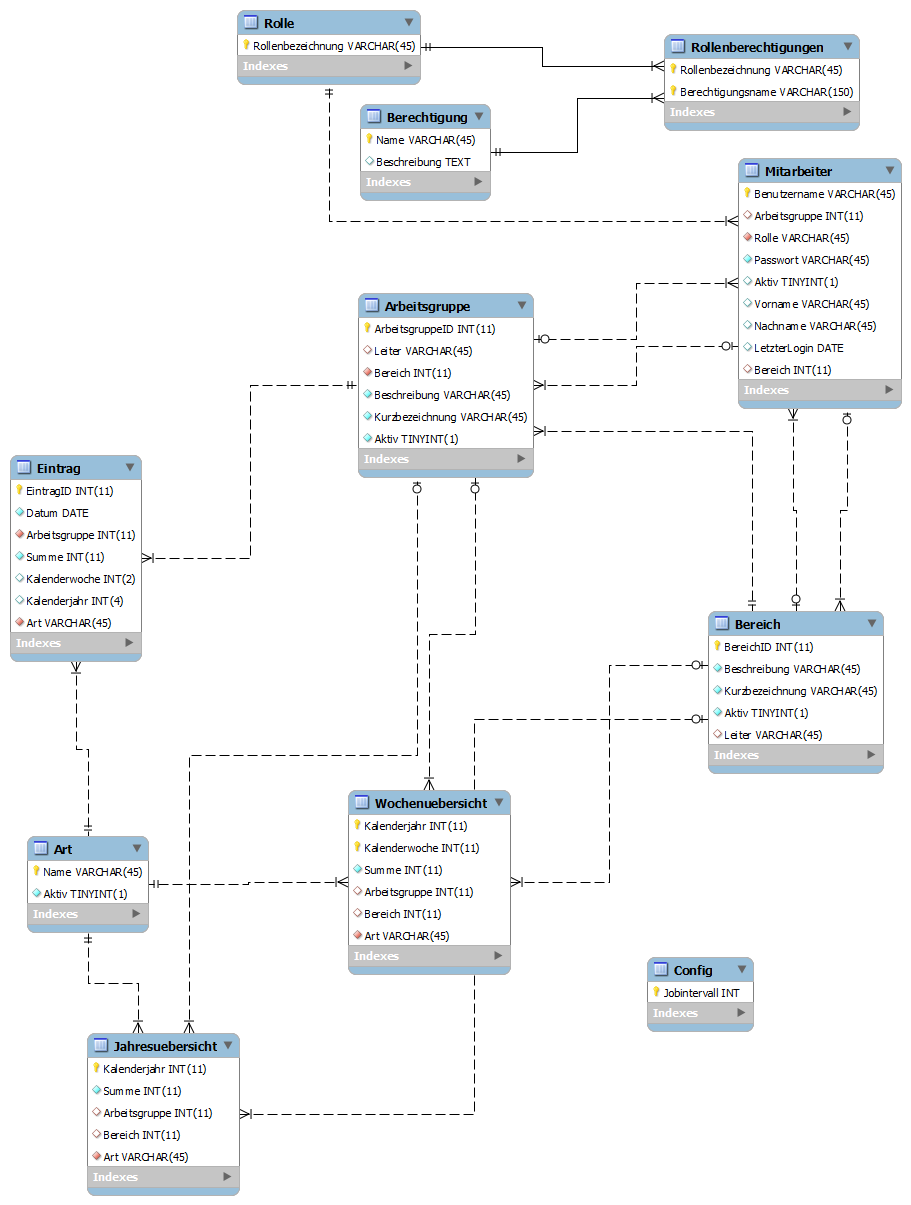
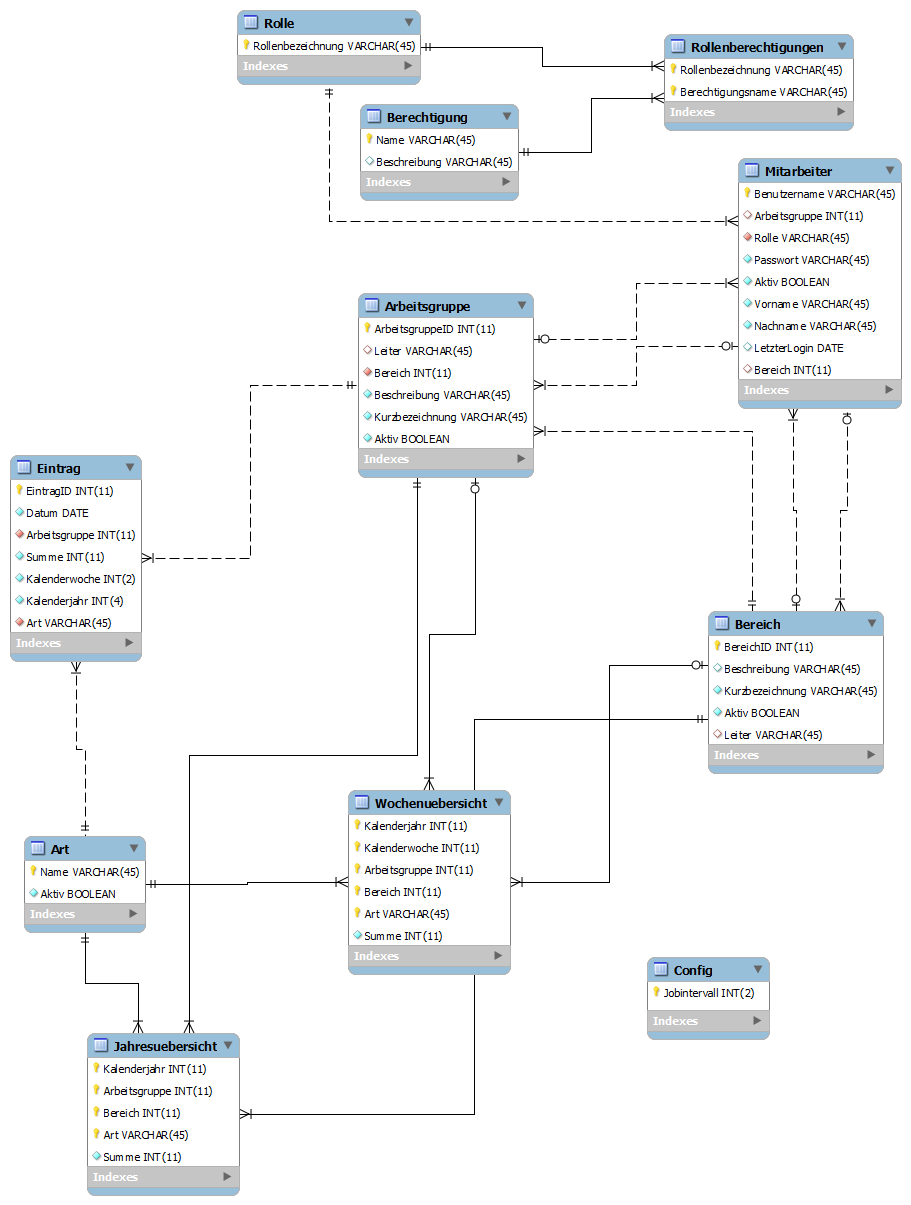
Konfig ist fertig. PNG aktualisert

diff --git a/src/fallstudie/model/impl/Konfig.java b/src/fallstudie/model/impl/Konfig.java
@@ -8,15 +8,40 @@ import fallstudie.model.mysql.connector.RemoteConnection;
 
 public class Konfig {
 
-	int jobIntervall;
+	String jobIntervall;
 	
 	/**
-	 * Standartkonstruktor
-	 * @throws SQLException 
+	 * Ändert das Jobintervall, Standard ist 3= 3 Monate
+	 * @param intervall MONATSANGABE
+	 * @return
+	 * @throws Exception
 	 */
-	public Konfig() throws SQLException
-	{
-		RemoteConnection Connection = new RemoteConnection();
+	public boolean setJobIntervall(String intervall) throws Exception
+	{	
+		try
+		{
+			if( RemoteConnection.connection == null || RemoteConnection.sql == null ){
+				RemoteConnection.connect();
+			};
+		}
+		catch (NullPointerException e)
+		{
+			System.err.println("Konnte keine Datenbankverbindung herstellen!");
+		}
+		boolean erfolgreich = false;
+		
+		System.out.println("UPDATE Config SET Jobintervall='"+intervall+"'");
+		
+		int rowsAffect = RemoteConnection.sql.executeUpdate("UPDATE Config SET Jobintervall='"+intervall+"'");
+		
+		if (rowsAffect==1)erfolgreich =true;System.out.println("Es wurde "+rowsAffect+" Datensatz gespeichert.");
+		if (rowsAffect==0)throw new Exception("Datensatz konnte nicht gespeichert werden!");
+		return erfolgreich;
+		
+		
+	}
+	public static String getJobIntervall() throws SQLException
+	{	RemoteConnection Connection = new RemoteConnection();
 		try
 		{
 			if( RemoteConnection.connection == null || RemoteConnection.sql == null ){
@@ -32,27 +57,9 @@ public class Konfig {
 		
 		ResultSet resultSet = Connection.executeQueryStatement("SELECT * FROM Config");
 		resultSet.next();
-		this.jobIntervall=resultSet.getInt("Jobintervall");
-		
-	}
-	
-	public boolean setJobIntervall(int intervall) throws Exception
-	{
-		boolean erfolgreich = false;
-		
-		System.out.println("UPDATE Config SET Jobintervall='"+intervall+"'");
-		
-		int rowsAffect = RemoteConnection.sql.executeUpdate("UPDATE Config SET Jobintervall='"+intervall+"'");
-		
-		if (rowsAffect==1)erfolgreich =true;System.out.println("Es wurde "+rowsAffect+" Datensatz gespeichert.");
-		if (rowsAffect==0)throw new Exception("Datensatz konnte nicht gespeichert werden!");
-		this.jobIntervall=intervall;
-		return erfolgreich;
-		
-		
-	}
-	public int getJobIntervall()
-	{
-		return this.jobIntervall;
+		String jobIntervall=resultSet.getString("Jobintervall");
+
+
+		return jobIntervall;
 	}
 }

diff --git a/src/fallstudie/model/impl/TesterKlasse.java b/src/fallstudie/model/impl/TesterKlasse.java
@@ -1,9 +1,12 @@
 package fallstudie.model.impl;
 
+import java.sql.ResultSet;
 import java.util.Collection;
 import java.util.Iterator;
 import java.util.LinkedList;
 import java.util.concurrent.LinkedBlockingDeque;
+
+import fallstudie.model.mysql.connector.RemoteConnection;
 
 
 
@@ -15,20 +18,23 @@ public class TesterKlasse {
 	 * @throws Exception 
 	 */
 	public static void main(String[] args) throws Exception {
-		
-		Collection<Rechte> alleRechteVonRolle = new LinkedList<>();
-		Rolle r = new Rolle("Sachbearbeiter");
-		alleRechteVonRolle = r.getBerechtigungenzuRolle();
-		for (Iterator i = alleRechteVonRolle.iterator(); i.hasNext();)
-
+		RemoteConnection Connection = new RemoteConnection();
+		try
 		{
-
-		Rechte rechte = (Rechte) i.next();
-
-		String rechtName = rechte.getName();
-		System.out.println(rechtName);
-
-
+			if( RemoteConnection.connection == null || RemoteConnection.sql == null ){
+				RemoteConnection.connect();
+			};
 		}
-}
+		catch (NullPointerException e)
+		{
+			System.err.println("Konnte keine Datenbankverbindung herstellen!");
+		}
+		
+		System.out.println("SELECT * FROM Config");
+		
+		ResultSet resultSet = Connection.executeQueryStatement("SELECT * FROM Config");
+		resultSet.next();
+		String jobIntervall=resultSet.getString("Jobintervall");
+
+	}
 }

diff --git a/src/fallstudie/model/impl/Mitarbeiter.java b/src/fallstudie/model/impl/Mitarbeiter.java
@@ -424,7 +424,7 @@ public class Mitarbeiter {
 	 * @return
 	 */
 	public boolean ausloggen() {
-		
+		//Heutiges Datum generieren
 		SimpleDateFormat simpleFormat = new SimpleDateFormat("yyyy-MM-dd");
 		Date date = new Date();
 		String heutigesDatum =simpleFormat.format(date);
